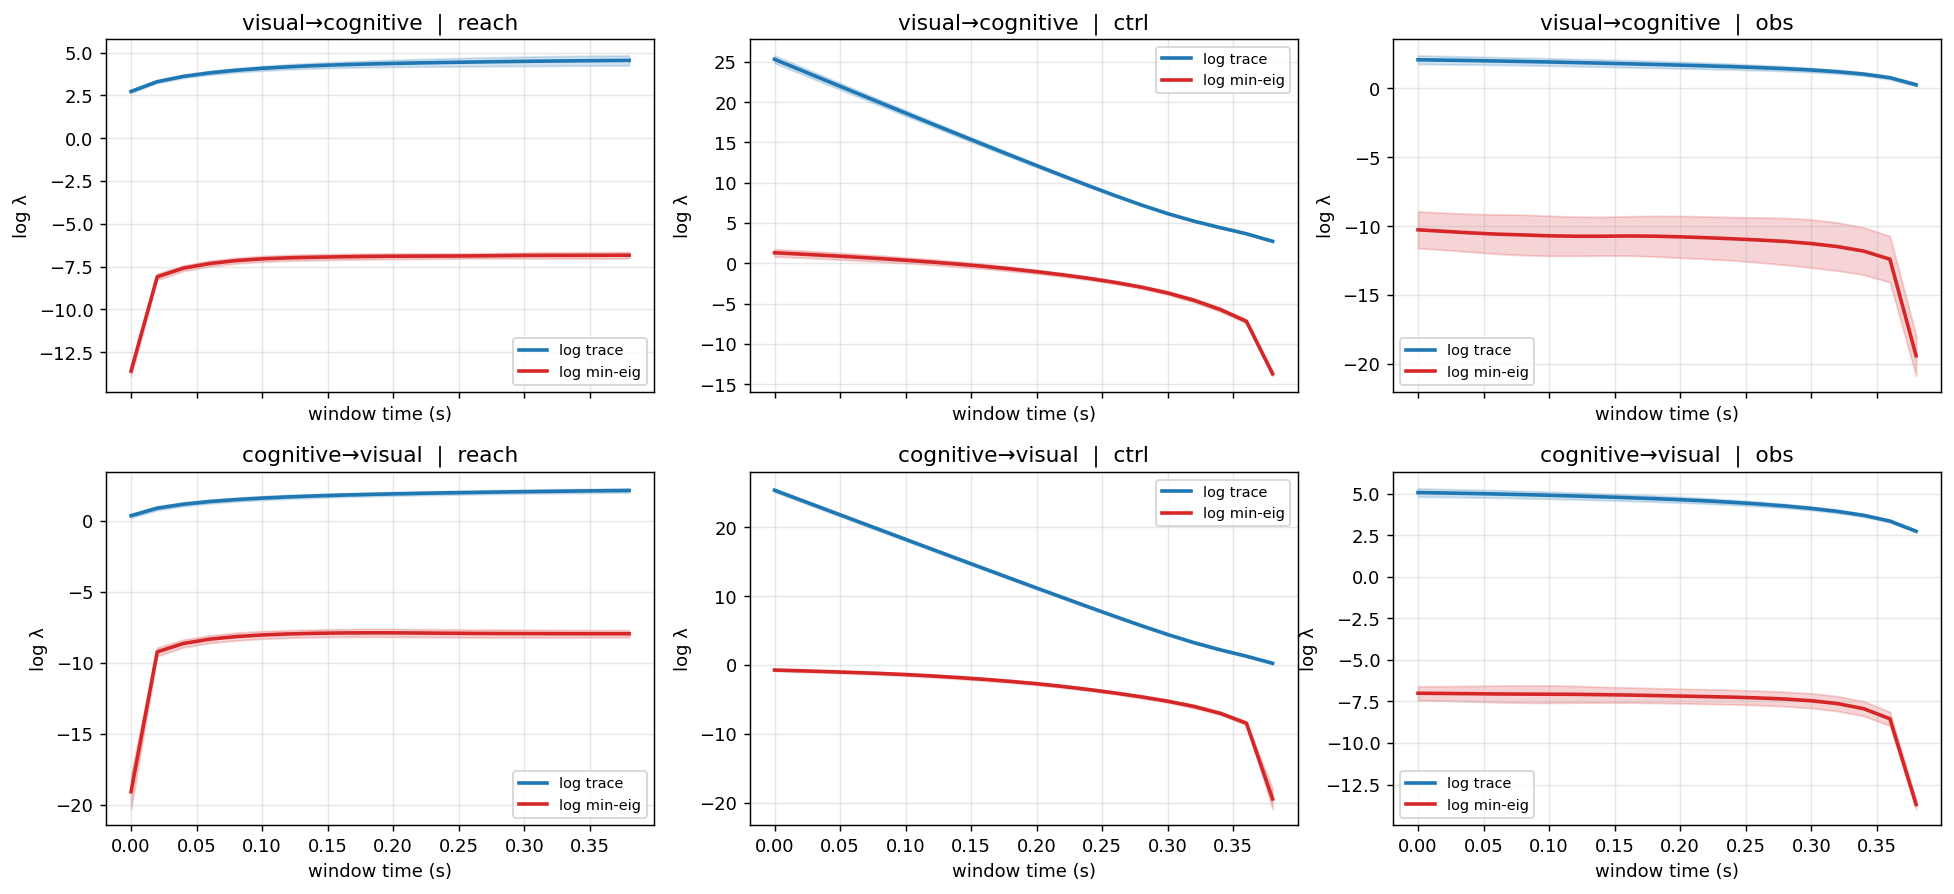
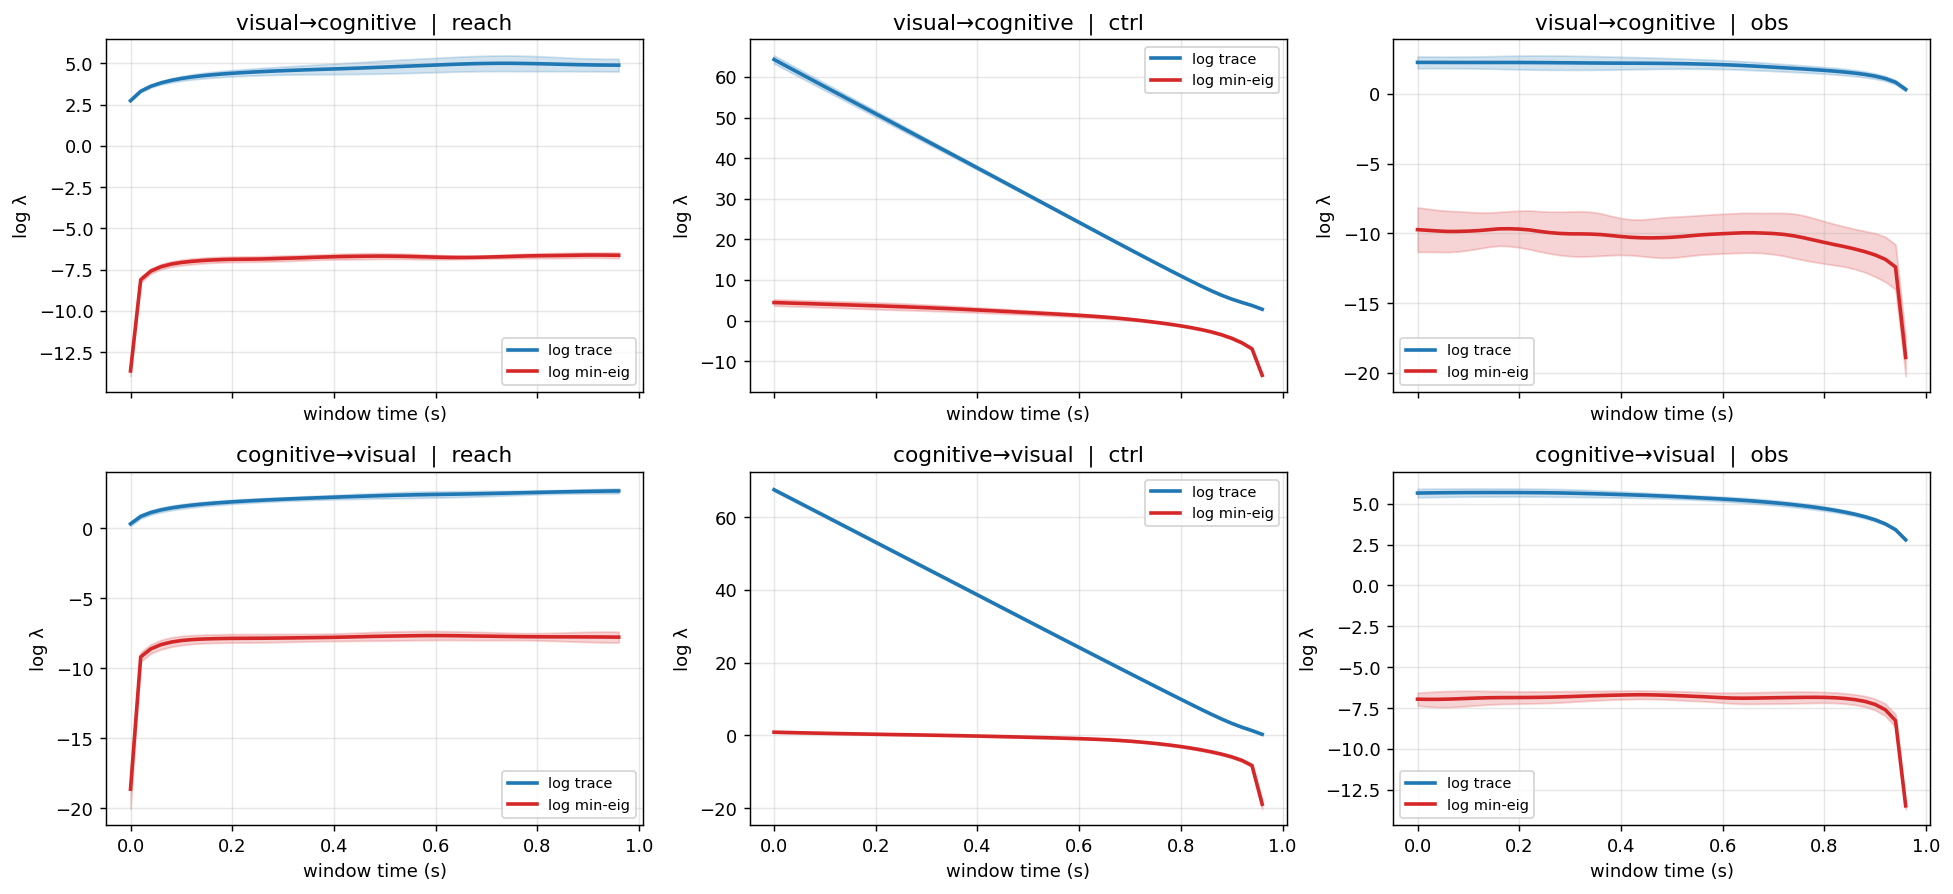
WMTask cross-area Gramians: full 49-step trajectories, 128 samples
Upsizes the analysis from 4 trajectories x 20-step windows to 128
trajectories over the full 49-step (delay2) horizon. Adds a
WINDOW_SIZE=None convenience that uses the full trajectory length as a
single window. ~40s on CPU.

Result: V->C reach log-trace = +4.89, C->V reach = +2.68 -- visual
drives cognitive ~7x more than the reverse in log-trace terms.
Dual identities hold (V->C ctrl equals C->V obs, etc.), confirming
the algorithm's consistency.

diff --git a/_notebook/control_analysis_wmtask_cross_area.py b/_notebook/control_analysis_wmtask_cross_area.py
@@ -85,15 +85,23 @@ print(f"trajectories: {values.shape} (n_trajs, T, D)   dt = {dt}")
 VISUAL = slice(0, 64)
 COGNITIVE = slice(64, 128)
 
-N_BATCH = 4          # number of trajectories to analyse (start small)
-WINDOW_SIZE = 20     # timesteps per Gramian window
-STRIDE = 10          # stride between windows
+N_BATCH = 128        # number of trajectories to analyse
+WINDOW_SIZE = None   # None -> use the full trajectory length as one window
+STRIDE = None        # ignored when WINDOW_SIZE is full length
+
+n_available = values.shape[0]
+if N_BATCH > n_available:
+    print(f"Requested N_BATCH={N_BATCH} > available {n_available}, capping.")
+    N_BATCH = n_available
 
 traj_batch = values[:N_BATCH]
 T_total = traj_batch.shape[1]
+if WINDOW_SIZE is None:
+    WINDOW_SIZE = T_total
+    STRIDE = T_total  # only one window per trajectory
 n_windows = (T_total - WINDOW_SIZE) // STRIDE + 1
 print(
-    f"Using {N_BATCH} trajs × {n_windows} windows "
+    f"Using {N_BATCH} trajs × {n_windows} window(s) "
     f"(size {WINDOW_SIZE}, stride {STRIDE}) over T={T_total}. "
     f"Total batched windows: {N_BATCH * n_windows}"
 )

diff --git a/_notebook/reports/2026-04-14 - WMTask Cross-Area Gramians.md b/_notebook/reports/2026-04-14 - WMTask Cross-Area Gramians.md
@@ -4,10 +4,10 @@ Ground-truth Jacobians (via `eq.jac`) of the trained `init_mode_random` biologic
 
 ## Configuration
 
-- Trajectories analysed: **4**
+- Trajectories analysed: **128**
 - Trajectory length T: **49**
-- Window size / stride: **20 / 10**
-- Windows per trajectory: **3** (total batch = 12)
+- Window size / stride: **49 / 49**
+- Windows per trajectory: **1** (total batch = 128)
 - dt: **0.02**
 - Rescaled square-root QR: **True**
 
@@ -19,12 +19,12 @@ Ground-truth Jacobians (via `eq.jac`) of the trained `init_mode_random` biologic
 
 | pair | gramian | log_trace_final ± std | log_min_final ± std |
 |------|---------|-----------------------|---------------------|
-| visual→cognitive | reach | +4.541 ± 0.289 | -6.835 ± 0.186 |
-| visual→cognitive | ctrl | +2.741 ± 0.065 | -13.699 ± 0.281 |
-| visual→cognitive | obs | +0.262 ± 0.113 | -19.419 ± 1.473 |
-| cognitive→visual | reach | +2.150 ± 0.144 | -7.946 ± 0.257 |
-| cognitive→visual | ctrl | +0.262 ± 0.113 | -19.419 ± 1.473 |
-| cognitive→visual | obs | +2.741 ± 0.065 | -13.699 ± 0.281 |
+| visual→cognitive | reach | +4.893 ± 0.385 | -6.624 ± 0.172 |
+| visual→cognitive | ctrl | +2.787 ± 0.051 | -13.473 ± 0.200 |
+| visual→cognitive | obs | +0.321 ± 0.138 | -18.894 ± 1.338 |
+| cognitive→visual | reach | +2.678 ± 0.178 | -7.771 ± 0.384 |
+| cognitive→visual | ctrl | +0.321 ± 0.138 | -18.894 ± 1.338 |
+| cognitive→visual | obs | +2.787 ± 0.051 | -13.473 ± 0.200 |
 
 ## Reading the figure
 
